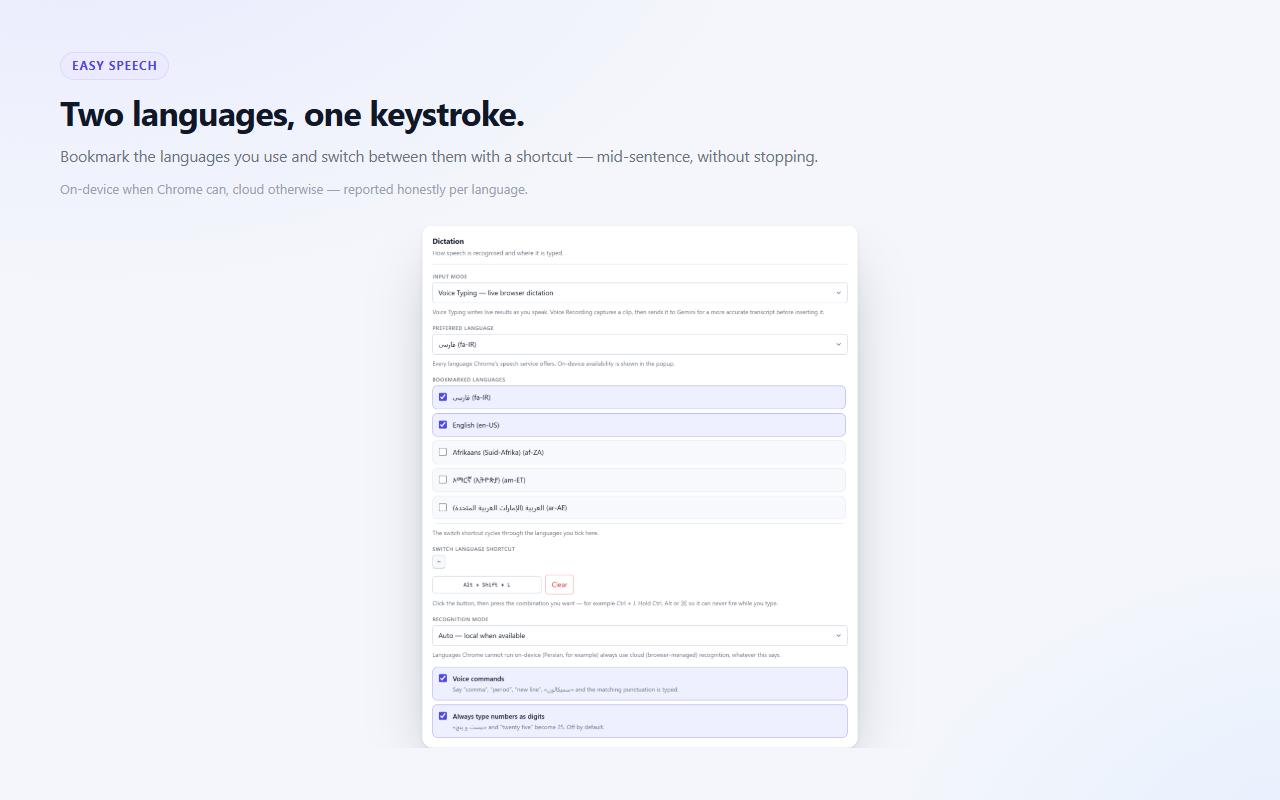
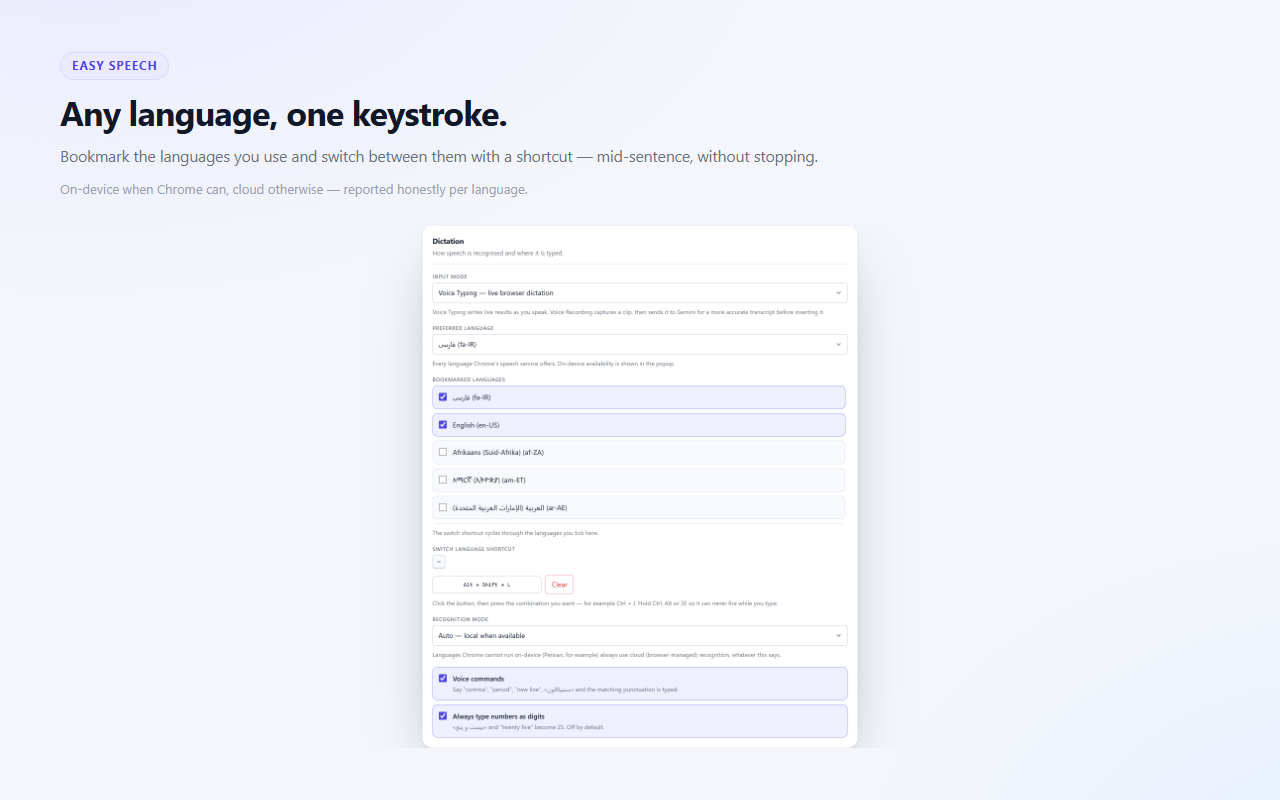
Fix English locale families and label hardening found in debug pass
- Built-in spoken-command tables and the numbers-as-digits parser were
  keyed to en-US exactly, so English (UK/AU/IN/...) dictation typed the
  spoken word "comma" instead of ',' and kept 'twenty-five' as words.
  Both now fall back across the en-*/fa-* locale families.
- languageLabel guards both Intl.DisplayNames calls; an unresolvable
  label can no longer take the popup or settings page down with it.
- Stale copy: AGENTS.md and package.json renamed to Easy speech, the
  settings screenshot headline now reads 'Any language, one keystroke.'
- 7 new regression tests (631 total).

Changed region(s): [[0.0312, 0.125, 0.4062, 0.1875]]

diff --git a/tests/languages.test.ts b/tests/languages.test.ts
@@ -1,5 +1,6 @@
-import { describe, expect, it } from 'vitest';
-import { nextBookmarkedLanguage } from '../src/shared/languages';
+import { describe, expect, it, vi } from 'vitest';
+import { languageLabel, nextBookmarkedLanguage } from '../src/shared/languages';
+import { SUPPORTED_LANGUAGES } from '../src/shared/constants';
 
 describe('nextBookmarkedLanguage', () => {
   it('cycles in stored order', () => {
@@ -18,5 +19,40 @@ describe('nextBookmarkedLanguage', () => {
 
   it('jumps to the first bookmark when the current one is not bookmarked', () => {
     expect(nextBookmarkedLanguage('en-US', ['fa-IR'])).toBe('fa-IR');
+  });
+});
+
+describe('languageLabel', () => {
+  it('labels each language in its own script', () => {
+    // Node's ICU appends the region ("Deutsch (Deutschland)") where Chrome
+    // omits it ("Deutsch") — assert on the language part only.
+    expect(languageLabel('de-DE')).toMatch(/^Deutsch/);
+    expect(languageLabel('en-US')).toBe('English');
+    expect(languageLabel('fa-IR')).toBe('فارسی');
+  });
+
+  it('resolves every catalog language without throwing', () => {
+    for (const code of SUPPORTED_LANGUAGES) {
+      expect(languageLabel(code).length).toBeGreaterThan(0);
+    }
+  });
+
+  it('falls back to the raw code when DisplayNames fails', async () => {
+    class BrokenDisplayNames {
+      of(): string {
+        throw new RangeError('structurally invalid');
+      }
+    }
+    // Re-import the module so its label cache starts empty: the test above
+    // resolved every locale through the real Intl, and a cached instance
+    // would bypass the stub.
+    vi.resetModules();
+    vi.stubGlobal('Intl', { ...Intl, DisplayNames: BrokenDisplayNames });
+    try {
+      const { languageLabel: freshLabel } = await import('../src/shared/languages');
+      expect(freshLabel('fr-FR')).toBe('fr-FR');
+    } finally {
+      vi.unstubAllGlobals();
+    }
   });
 });

diff --git a/src/content/recognition/NumberTransformer.ts b/src/content/recognition/NumberTransformer.ts
@@ -141,6 +141,21 @@ const WORD_TABLES: Partial<Record<Language, Record<string, NumberWord>>> = {
   'en-US': ENGLISH_WORDS,
 };
 
+/**
+ * Locale families that share one table: en-GB, en-AU and the other English
+ * locales recognize the same number words as en-US, so every en-* locale
+ * falls back to the English table (same for fa-*). Without this, «twenty-five»
+ * spoken in English (UK) stayed words instead of becoming 25.
+ */
+const FAMILY_TABLES: Record<string, Language> = { en: 'en-US', fa: 'fa-IR' };
+
+function wordTable(language: Language): Record<string, NumberWord> | undefined {
+  const exact = WORD_TABLES[language];
+  if (exact) return exact;
+  const family = FAMILY_TABLES[language.split('-')[0] ?? ''];
+  return family !== undefined ? WORD_TABLES[family] : undefined;
+}
+
 /** Persian hundreds (دویست…) are value words but rank like صد. */
 const HUNDRED_VALUES = new Set([200, 300, 400, 500, 600, 700, 800, 900]);
 
@@ -184,7 +199,8 @@ function lookupNumberWords(
 ): NumberWord[] | null {
   const key = normalizeWord(core);
   if (Object.prototype.hasOwnProperty.call(words, key)) return [words[key]!];
-  if (language !== 'en-US' || !key.includes('-')) return null;
+  // Hyphenated English compounds ("twenty-five") — any en-* locale.
+  if (language.split('-')[0] !== 'en' || !key.includes('-')) return null;
   const parts = key.split('-');
   if (
     !parts.every((part) => Object.prototype.hasOwnProperty.call(words, part) && !words[part]!.connector)
@@ -198,7 +214,7 @@ export class NumberTransformer {
   /** Converts spoken number words in `text` to digits; everything else passes
    *  through untouched. Never throws. */
   transform(text: string, language: Language): string {
-    const words = WORD_TABLES[language];
+    const words = wordTable(language);
     if (!words || text.length === 0) return text;
 
     const tokens = text.split(/(\s+)/);

diff --git a/.opencode/plugins/graphify.js b/.opencode/plugins/graphify.js
@@ -1,0 +1,30 @@
+// graphify OpenCode plugin
+// Injects a knowledge graph reminder before bash tool calls when the graph exists.
+//
+// IMPORTANT: keep the reminder string free of backticks and $(...) constructs.
+// The hook prepends `echo "<reminder>" && <cmd>` to the user's bash command;
+// backticks inside the double-quoted echo trigger bash command substitution,
+// which both corrupts tool output and silently executes the very graphify
+// command we are only suggesting. Plain words render fine in opencode's TUI.
+import { existsSync } from "fs";
+import { join } from "path";
+
+export const GraphifyPlugin = async ({ directory }) => {
+  let reminded = false;
+
+  return {
+    "tool.execute.before": async (input, output) => {
+      if (reminded) return;
+      if (!existsSync(join(directory, "graphify-out", "graph.json"))) return;
+
+      if (input.tool === "bash") {
+        // ';' not '&&' — Windows PowerShell 5.1 rejects '&&' as a statement
+        // separator, breaking the first bash command of the session (#1646).
+        output.args.command =
+          'echo "[graphify] knowledge graph at graphify-out/. For focused questions, run graphify query with your question (scoped subgraph, usually much smaller than GRAPH_REPORT.md) instead of grepping raw files. Read GRAPH_REPORT.md only for broad architecture context." ; ' +
+          output.args.command;
+        reminded = true;
+      }
+    },
+  };
+};

diff --git a/src/content/recognition/voiceCommands.ts b/src/content/recognition/voiceCommands.ts
@@ -126,6 +126,21 @@ const COMMAND_TABLES: Partial<Record<Language, Record<string, VoiceCommand>>> = 
   },
 };
 
+/**
+ * Locale families that share one table: en-GB, en-AU and en-IN recognize the
+ * same English command words as en-US, so every en-* locale falls back to the
+ * English table (same for fa-*). Without this, selecting English (UK) typed
+ * the spoken word "comma" instead of a comma.
+ */
+const FAMILY_TABLES: Record<string, Language> = { en: 'en-US', fa: 'fa-IR' };
+
+function builtInTable(language: Language): Record<string, VoiceCommand> {
+  const exact = COMMAND_TABLES[language];
+  if (exact) return exact;
+  const family = FAMILY_TABLES[language.split('-')[0] ?? ''];
+  return (family !== undefined ? COMMAND_TABLES[family] : undefined) ?? {};
+}
+
 /** Case/ZWNJ/Arabic-variant-insensitive form used for matching only. */
 function normalizeToken(token: string): string {
   return token
@@ -178,7 +193,7 @@ function buildCustomTable(
  */
 export function applyVoiceCommands(text: string, language: Language, custom: CustomVoiceCommand[] = []): string {
   const customTable = custom.length > 0 ? buildCustomTable(custom) : null;
-  const builtIn = COMMAND_TABLES[language] ?? {};
+  const builtIn = builtInTable(language);
   const commands: Record<string, VoiceCommand> = customTable
     ? { ...builtIn, ...customTable.table }
     : builtIn;

diff --git a/src/shared/languages.ts b/src/shared/languages.ts
@@ -28,12 +28,20 @@ function displayNamesFor(locale: string): Intl.DisplayNames | null {
 /**
  * Native label for any catalog language: each language is shown in its own
  * script (de-DE → "Deutsch", he-IL → "עברית"), with the raw code as fallback
- * so a never-thrown label is always available to the UI.
+ * so a never-thrown label is always available to the UI. Both DisplayNames
+ * calls are guarded: a label that cannot be resolved must never take the
+ * popup or the settings page down with it.
  */
 export function languageLabel(language: Language): string {
   const hand = HAND_LABELS[language];
   if (hand) return hand;
-  return displayNamesFor(language)?.of(language) ?? language;
+  const displayNames = displayNamesFor(language);
+  if (!displayNames) return language;
+  try {
+    return displayNames.of(language) ?? language;
+  } catch {
+    return language;
+  }
 }
 
 export interface LanguageOption {

diff --git a/tests/voice-commands.test.ts b/tests/voice-commands.test.ts
@@ -205,3 +205,15 @@ describe('applyVoiceCommands — languages without a built-in table', () => {
     expect(applyVoiceCommands('hello comma world', 'en-US')).toBe('hello, world');
   });
 });
+
+describe('applyVoiceCommands — English locale family', () => {
+  it('applies the English table to every en-* locale, not just en-US', () => {
+    expect(applyVoiceCommands('hello comma world', 'en-GB')).toBe('hello, world');
+    expect(applyVoiceCommands('stop period', 'en-AU')).toBe('stop.');
+    expect(applyVoiceCommands('one new line two', 'en-IN')).toBe('one\ntwo');
+  });
+
+  it('keeps non-English families table-free (de-DE stays plain dictation)', () => {
+    expect(applyVoiceCommands('ein comma zwei', 'de-DE')).toBe('ein comma zwei');
+  });
+});

diff --git a/tests/number-transformer.test.ts b/tests/number-transformer.test.ts
@@ -176,3 +176,15 @@ describe('NumberTransformer — general', () => {
     expect(transformer.transform('دو سیب و ده پرتقال', 'fa-IR')).toBe('2 سیب و 10 پرتقال');
   });
 });
+
+describe('NumberTransformer — English locale family', () => {
+  it('converts numbers for every en-* locale, including hyphenated compounds', () => {
+    expect(transformer.transform('twenty five', 'en-GB')).toBe('25');
+    expect(transformer.transform('twenty-five', 'en-GB')).toBe('25');
+    expect(transformer.transform('one hundred twenty three', 'en-AU')).toBe('123');
+  });
+
+  it('leaves other families untouched', () => {
+    expect(transformer.transform('eins zwei', 'de-DE')).toBe('eins zwei');
+  });
+});

diff --git a/AGENTS.md b/AGENTS.md
@@ -1,6 +1,7 @@
-# Agent Instructions — Voice Type (fa/en)
+# Agent Instructions — Easy speech
 
-Voice typing Chrome extension (Manifest V3) for Persian and English dictation.
+Voice typing Chrome extension (Manifest V3) for dictation in 100+ languages,
+built for Persian and English first.
 Built and verified with the Chrome team's **Modern Web Guidance** skill pack
 (installed at `.zcode/skills/`).
 
